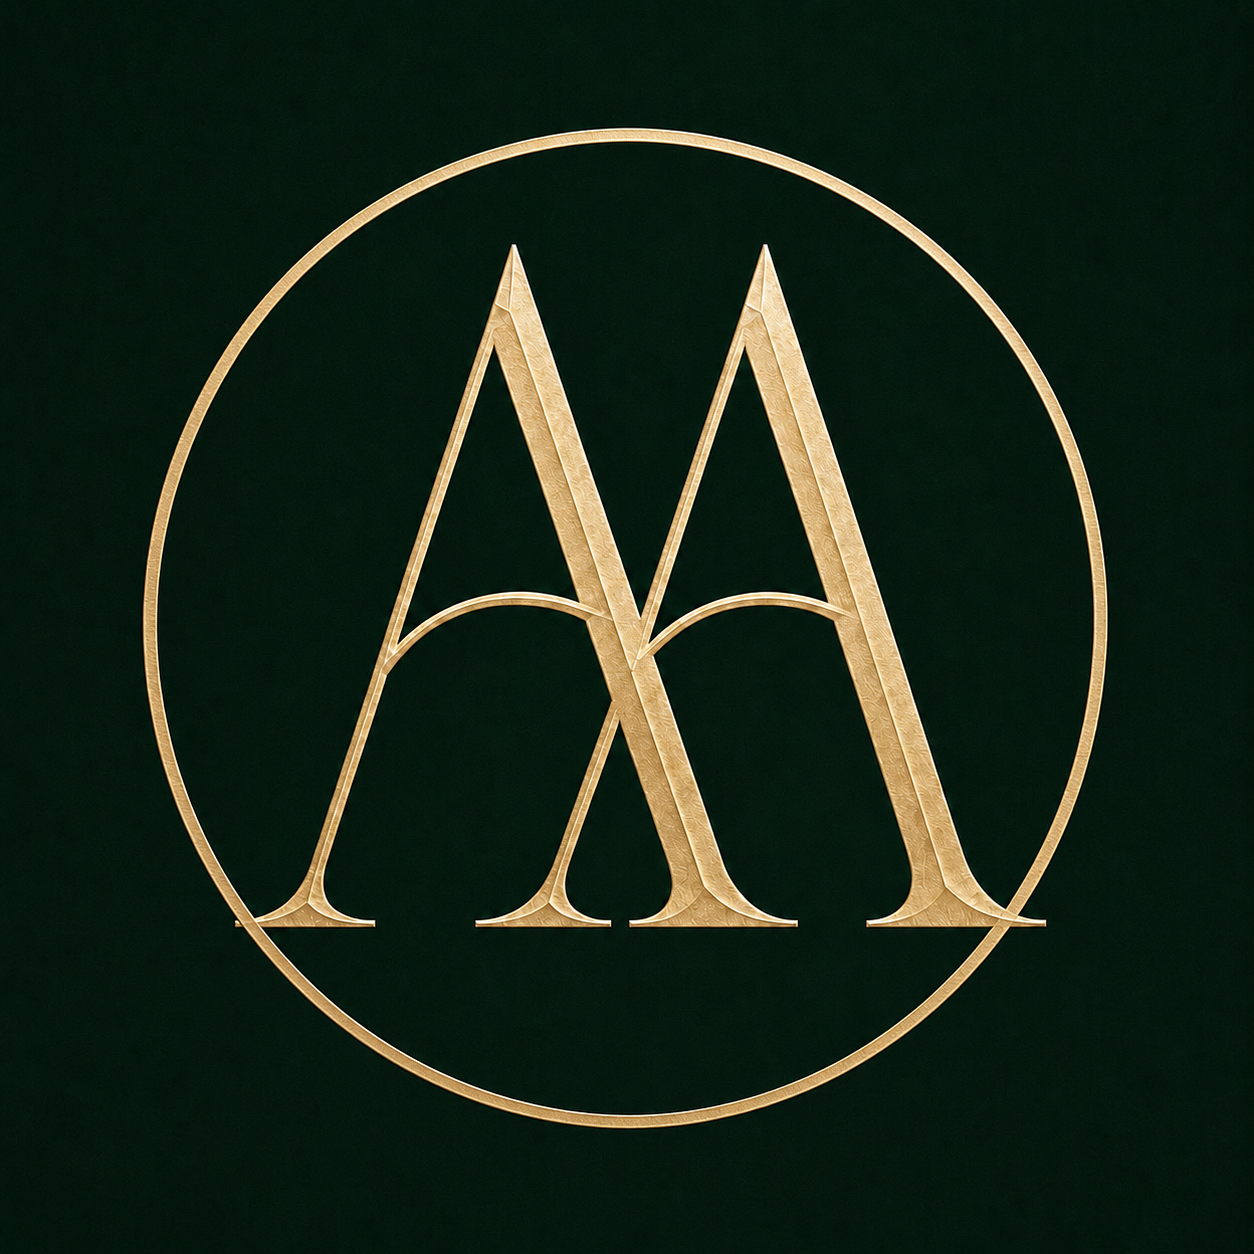
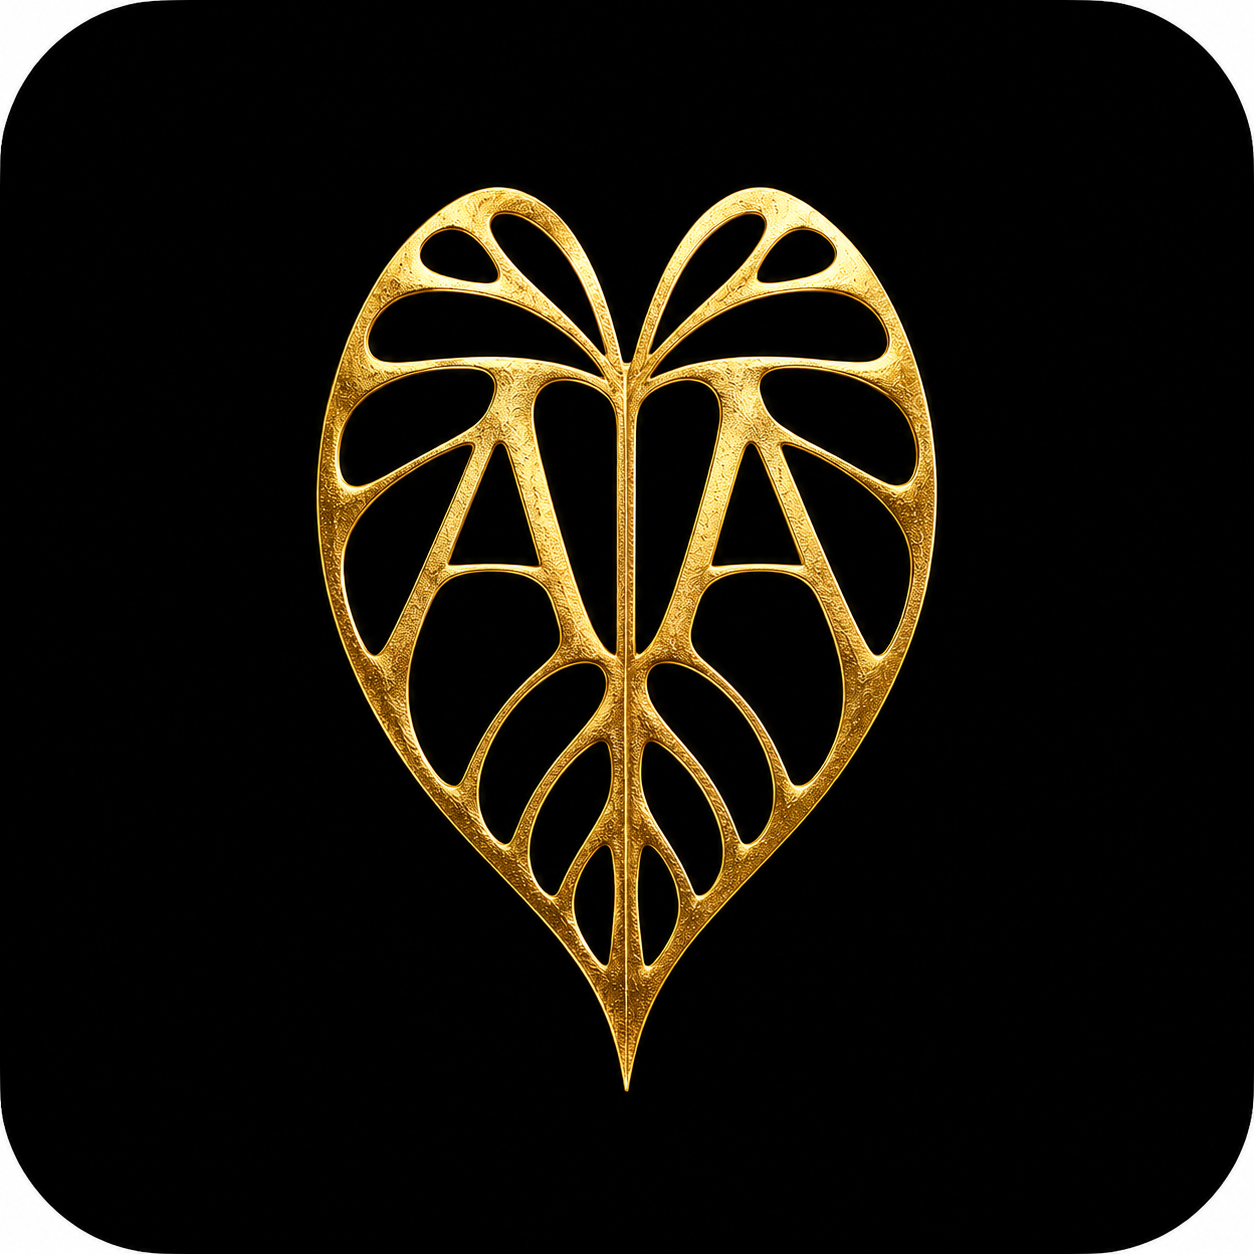
feat: add FeaturedSpecies and Footer components with new branding assets

diff --git a/src/components/FeaturedSpecies.tsx b/src/components/FeaturedSpecies.tsx
@@ -25,24 +25,18 @@ function PlantCard({
         className="glass-card-glow group block overflow-hidden rounded-2xl"
       >
         {/* Image Container */}
-        <div className="relative aspect-[3/4] overflow-hidden bg-card">
-          {/* Spotlight Plant Plate Image */}
+        <div className="relative aspect-[3/4] overflow-hidden bg-forest-dark/60">
+          {/* Full botanical plate, unclipped */}
           <Image
             src={`/plants/${plant.genus.toLowerCase()}/${plant.slug}.png`}
             alt={plant.commonName}
             fill
-            className="object-cover object-center scale-[1.3] transition-all duration-700 ease-out group-hover:scale-[1.4] opacity-80 group-hover:opacity-100 filter brightness-95 group-hover:brightness-105"
+            className="object-contain object-center transition-transform duration-700 ease-out group-hover:scale-[1.04]"
             sizes="(max-width: 768px) 100vw, 25vw"
           />
 
-          {/* Spotlight Reveal Overlay (hides margins/text and exposes center specimen) */}
-          <div className="absolute inset-0 bg-[radial-gradient(circle_at_center,transparent_15%,rgba(17,26,21,0.45)_45%,rgba(17,26,21,0.9)_75%,#111A15_100%)] transition-all duration-700 ease-out group-hover:scale-105 pointer-events-none" />
-
-          {/* Soft ambient green light underneath */}
-          <div className="absolute inset-0 bg-[radial-gradient(circle_at_center,rgba(195,217,161,0.08)_0%,transparent_60%)] pointer-events-none" />
-
           {/* Bottom gradient overlay for text legibility */}
-          <div className="absolute bottom-0 left-0 right-0 h-1/2 bg-gradient-to-t from-card via-card/75 to-transparent pointer-events-none" />
+          <div className="absolute bottom-0 left-0 right-0 h-2/5 bg-gradient-to-t from-forest-dark via-forest-dark/80 to-transparent pointer-events-none" />
 
           {/* Info Overlay */}
           <div className="absolute bottom-0 left-0 right-0 p-4">

diff --git a/src/components/Footer.tsx b/src/components/Footer.tsx
@@ -51,9 +51,9 @@ export default function Footer() {
               <Image
                 src="/images/logo.png"
                 alt="Aroid Atlas"
-                width={450}
-                height={67}
-                className="h-[72px] w-auto mix-blend-screen"
+                width={674}
+                height={100}
+                className="h-10 w-auto mix-blend-screen"
               />
             </Link>
             <p className="text-xs text-muted leading-relaxed max-w-xs">